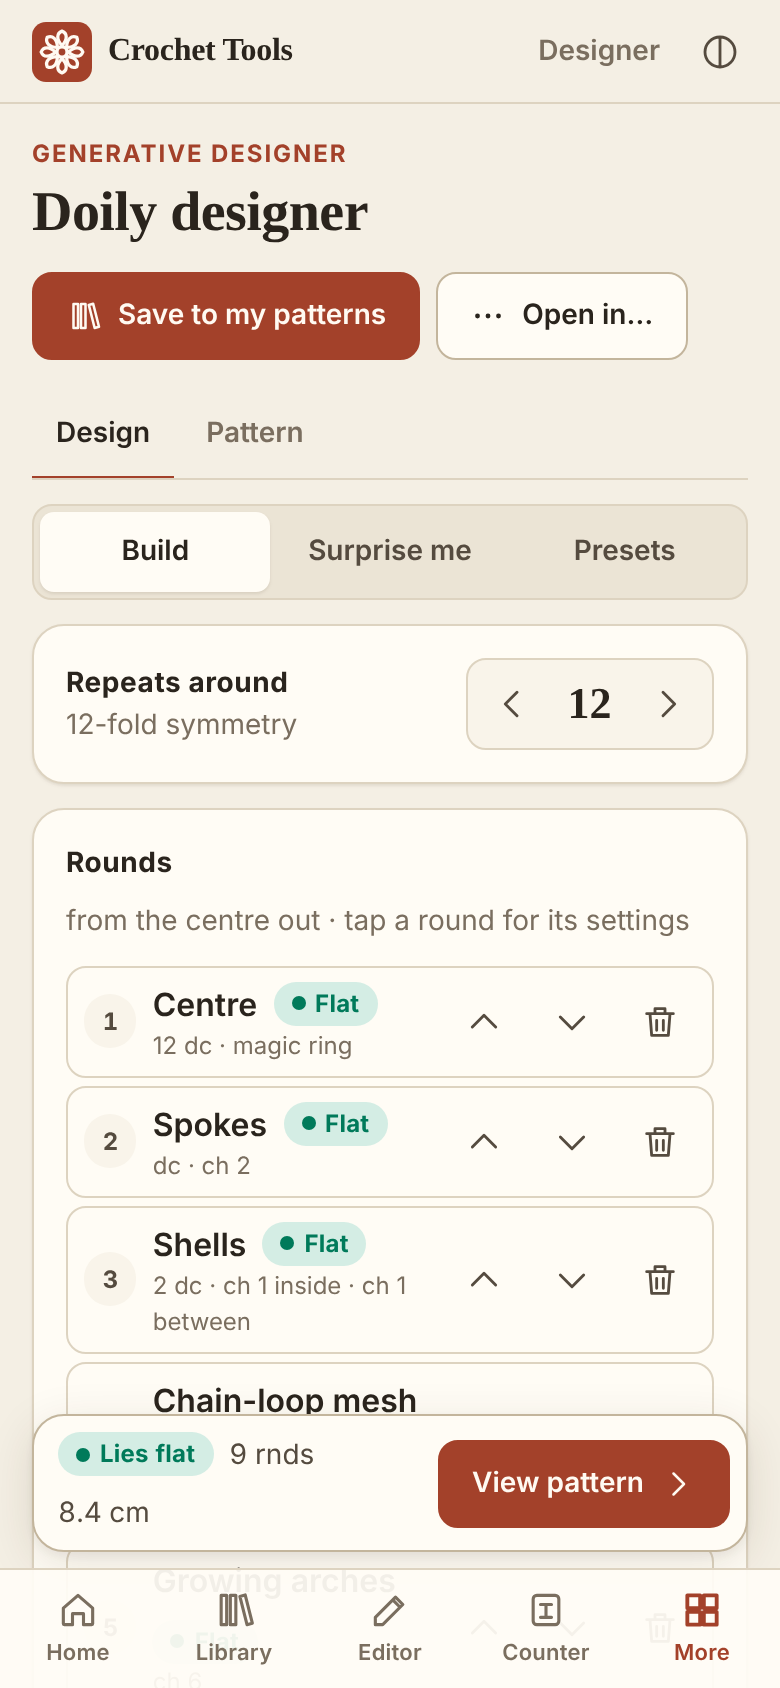
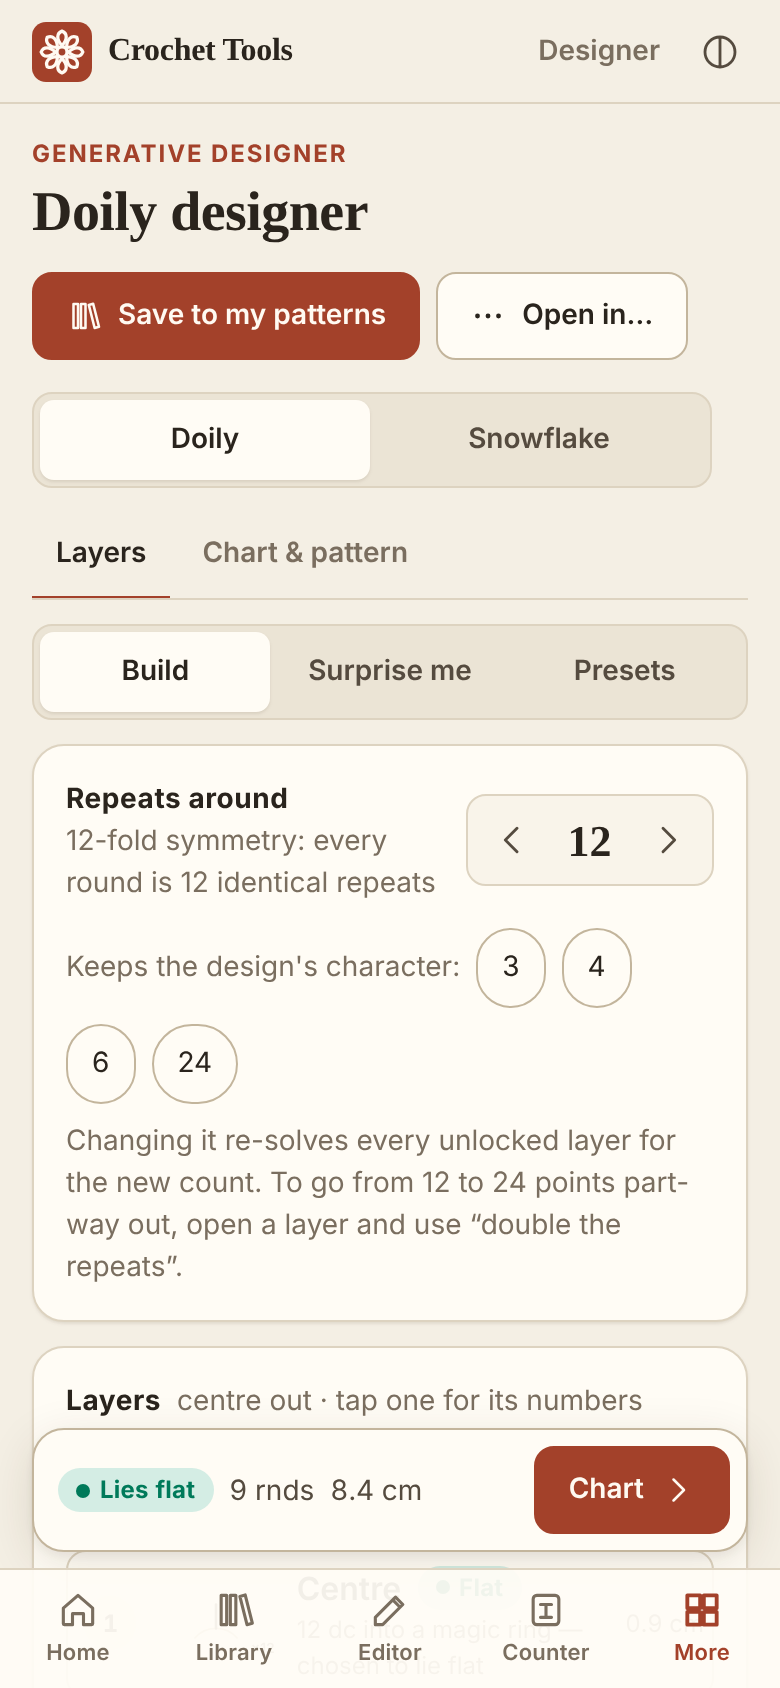
Designer: layer builder, suggestions, visible auto-sizing; snowflake designer with blocking template; README
Claude-Session: https://claude.ai/code/session_01UMQowqdXjqFEaWJpRQsUYC

diff --git a/docs/sim_corpus_report.md b/docs/sim_corpus_report.md
@@ -14,22 +14,22 @@ Timings are from the machine that generated the file and vary with load.
 
 | pattern | nodes | count rule (final round) | e nominal | sim | A | W | agree | converged | unsettled rounds | time |
 |---|---:|---|---:|---|---:|---:|:---:|:---:|---:|---:|
-| bobble-flower-coaster-6 | 234 | flat | +3 % | flat | 0.00 | 0.01 | yes | yes | 0 | 0.3 s |
-| granny-square-motif | 292 | flat | +3 % | flat | 0.07 | 0.17 | yes | yes | 0 | 0.3 s |
-| hexagon-motif-6 | 312 | flat | +5 % | flat | 0.02 | 0.21 | yes | yes | 0 | 1.0 s |
-| petal-doily-12 | 2064 | flat (loose loops) | +38 % | flat | 0.01 | 0.03 | yes | yes | 0 | 2.4 s |
-| picot-coaster-24 | 116 | flat (loose loops) | +28 % | flat | 0.01 | 0.04 | yes | yes | 0 | 0.1 s |
-| popcorn-ridge-mat-8 | 292 | flat | −3 % | cup | 0.34 | 0.18 | **no** | yes | 0 | 0.4 s |
-| puff-star-coaster-5 | 167 | flat | −2 % | ruffle | 0.02 | 0.32 | **no** | yes | 0 | 0.4 s |
-| rep-from-star-rosette-8 | 512 | flat | −7 % | cup | 0.88 | 0.35 | **no** | yes | 0 | 4.9 s |
-| solid-centre-lace-border-24 | 977 | flat (loose loops) | +30 % | flat | 0.04 | 0.09 | yes | yes | 0 | 1.7 s |
-| spiderweb-doily-10 | 2136 | flat (loose loops) | +28 % | flat | 0.01 | 0.15 | yes | yes | 0 | 6.0 s |
-| spiral-sc-mat-fan-edge | 415 | flat | −1 % | flat | 0.02 | 0.10 | yes | yes | 0 | 0.8 s |
-| sunburst-dtr-doily-20 | 1333 | flat (loose loops) | +23 % | flat | 0.03 | 0.03 | yes | yes | 0 | 1.5 s |
-| teaching-cup-basket | 416 | cup (closed form) | −54 % | cup | 1.80 | 0.20 | yes | yes | 0 | 0.9 s |
-| teaching-ruffle-shell-doily | 474 | ruffle | +207 % | cup | 0.67 | 0.32 | **no** | yes | 0 | 1.2 s |
-| uk-terms-wheel-16 | 758 | flat | −8 % | flat | 0.18 | 0.14 | yes | yes | 0 | 1.2 s |
-| wheel-mesh-centrepiece-8 | 2612 | flat (loose loops) | +12 % | flat | 0.07 | 0.14 | yes | yes | 0 | 5.2 s |
+| bobble-flower-coaster-6 | 234 | flat | +3 % | flat | 0.00 | 0.01 | yes | yes | 0 | 0.2 s |
+| granny-square-motif | 292 | flat | +3 % | flat | 0.07 | 0.17 | yes | yes | 0 | 0.2 s |
+| hexagon-motif-6 | 312 | flat | +5 % | flat | 0.02 | 0.21 | yes | yes | 0 | 0.9 s |
+| petal-doily-12 | 2064 | flat (loose loops) | +38 % | flat | 0.01 | 0.03 | yes | yes | 0 | 2.5 s |
+| picot-coaster-24 | 116 | flat (loose loops) | +28 % | flat | 0.01 | 0.04 | yes | yes | 0 | 0.0 s |
+| popcorn-ridge-mat-8 | 292 | flat | −3 % | cup | 0.34 | 0.18 | **no** | yes | 0 | 0.3 s |
+| puff-star-coaster-5 | 167 | flat | −2 % | ruffle | 0.02 | 0.32 | **no** | yes | 0 | 0.3 s |
+| rep-from-star-rosette-8 | 512 | flat | −7 % | cup | 0.88 | 0.35 | **no** | yes | 0 | 3.9 s |
+| solid-centre-lace-border-24 | 977 | flat (loose loops) | +30 % | flat | 0.04 | 0.09 | yes | yes | 0 | 1.3 s |
+| spiderweb-doily-10 | 2136 | flat (loose loops) | +28 % | flat | 0.01 | 0.15 | yes | yes | 0 | 4.7 s |
+| spiral-sc-mat-fan-edge | 415 | flat | −1 % | flat | 0.02 | 0.10 | yes | yes | 0 | 0.7 s |
+| sunburst-dtr-doily-20 | 1333 | flat (loose loops) | +23 % | flat | 0.03 | 0.02 | yes | yes | 0 | 2.3 s |
+| teaching-cup-basket | 416 | cup (closed form) | −54 % | cup | 1.80 | 0.20 | yes | yes | 0 | 0.8 s |
+| teaching-ruffle-shell-doily | 474 | ruffle | +207 % | cup | 0.67 | 0.32 | **no** | yes | 0 | 1.0 s |
+| uk-terms-wheel-16 | 758 | flat | −8 % | flat | 0.18 | 0.14 | yes | yes | 0 | 1.5 s |
+| wheel-mesh-centrepiece-8 | 2612 | flat (loose loops) | +12 % | flat | 0.07 | 0.14 | yes | yes | 0 | 6.1 s |
 
 ## Fixtures (`spec/fixtures`), for reference
 
@@ -38,7 +38,7 @@ Timings are from the machine that generated the file and vary with load.
 | chain_space_motif | 178 | flat (loose loops) | +34 % | flat | 0.02 | 0.02 | yes | yes | 0 | 0.1 s |
 | flat_dc_circle | 195 | flat | +0 % | flat | 0.08 | 0.07 | yes | yes | 0 | 0.2 s |
 | flat_sc_circle | 216 | flat | +0 % | flat | 0.01 | 0.05 | yes | yes | 0 | 0.1 s |
-| hyperbolic_plane | 213 | ruffle | +126 % | ruffle | 0.02 | 0.53 | yes | yes | 0 | 0.3 s |
-| sc_cone | 132 | cup | −43 % | cup | 1.55 | 0.08 | yes | yes | 0 | 0.1 s |
-| sc_sphere | 300 | cup (closed form) | −93 % | cup | 1.49 | 0.25 | yes | yes | 0 | 0.3 s |
+| hyperbolic_plane | 213 | ruffle | +126 % | ruffle | 0.02 | 0.53 | yes | yes | 0 | 0.2 s |
+| sc_cone | 132 | cup | −43 % | cup | 1.55 | 0.08 | yes | yes | 0 | 0.0 s |
+| sc_sphere | 300 | cup (closed form) | −93 % | cup | 1.49 | 0.25 | yes | yes | 0 | 0.2 s |
 | simple_doily | 396 | flat | −2 % | flat | 0.12 | 0.07 | yes | yes | 0 | 0.2 s |

diff --git a/README.md b/README.md
@@ -47,7 +47,10 @@ Actions*; after that every push to `main` publishes the app, which you can open 
 | **Chart**: radial symbol chart (CYC-style symbols generated from stitch structure), pan/zoom, SVG/PNG export | `#/chart` | works; weak on cornered motifs and closing rounds of spheres |
 | **Flatness checker**: per-round flat / cup / ruffle with "about N stitches over flat", as a colour band on the chart | in Chart, Designer | works; analytic approximation (see below) |
 | **3D view**: spring simulation of the graph, round slider, relaxed vs blocked | `#/sim` | works; approximate physics, nominal parameters |
-| **Doily designer**: symmetry order + motif stack or seeded "surprise me"; every round solved for flatness; output is ordinary notation | `#/designer` | works |
+| **Doily designer**: layer-by-layer builder with thumbnails, undo/redo and locking; ranked "add a round" suggestions; every round auto-solved for flatness with the alternatives shown; seeded "surprise me"; output is ordinary notation | `#/designer` | works |
+| **Snowflake designer**: point count, centre / body / arm layers, arm editor (tips, branches, minor points), seeded variations gallery, printable pin-out blocking template; judged by how it blocks, not by the circle rule | `#/designer?kind=snowflake` | works; the Chart page still draws arm rounds on a circle (use the Preview tab) |
+| **Symmetry analysis**: rotation order and mirror symmetry per round and for the whole piece (e.g. "D12"), near-miss detection, sector overlay on the chart | in Chart, Editor, Designer | works |
+| **Flatness assistant**: ranked one-tap fixes for a non-flat round (chain length, stitches per group, increase spacing), "fix all", per-round stitch-budget calculator | in Editor | works; inherits the lenient lace rule |
 | **Row counter**: phone-first, steps through the graph by stitch / item / round, wake lock, persists locally | `#/counter` | works |
 | **Amigurumi**: profile curve → surface-of-revolution pattern with evenly spread, staggered increases | `#/amigurumi` | works (stretch goal) |
 | **Gauge calculator**: rectangle, circle, tube, hat, gauge conversion | `#/amigurumi?tab=gauge` | works (stretch goal) |
@@ -150,7 +153,8 @@ Full grammar: [`spec/notation.md`](spec/notation.md).
 * *Designer*: 14 motifs; at very high symmetry orders a scalloped edge may not fit a repeat.
 
 **Notation gaps** (planned for v0.2 — `data/corpus/NOTATION_FEEDBACK.md`): working into earlier
-rounds, a picot or a ring's individual chains as targets, stitches above dtr, colour changes,
+rounds, returning to a chain spine after a chain branch (so snowflake arm branches are picots only
+and arms are always the last round), a picot or a ring's individual chains as targets, stitches above dtr, colour changes,
 joining motifs. After a join, `next st` starts at the stitch the join went into, which is not how
 every crocheter reads "sl st in next st" (decision 15).
 
